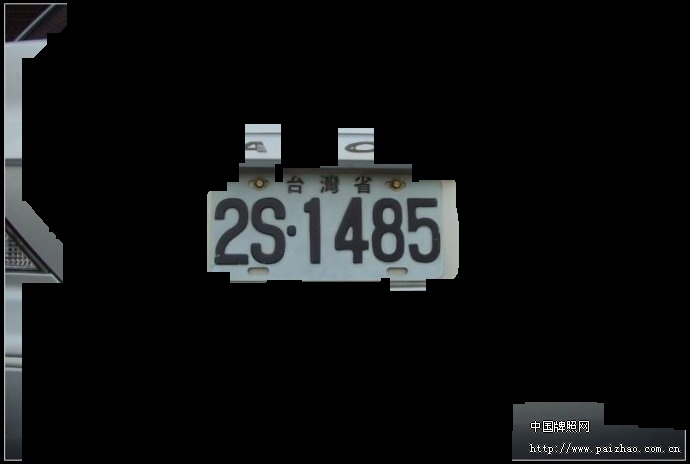
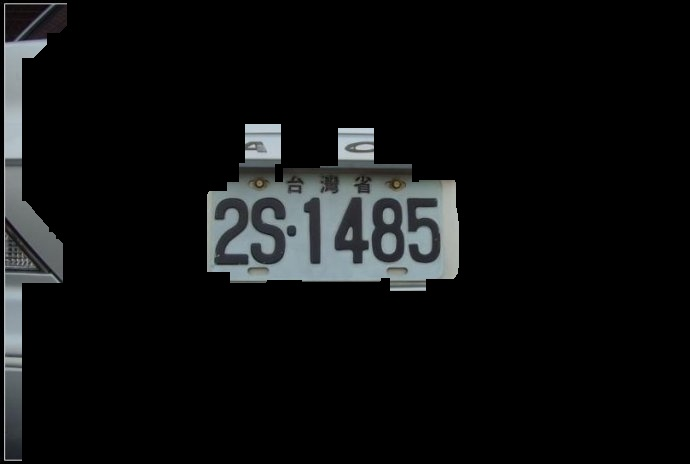
2018_11_27_3

Changed region(s): [[0.7304, 0.8448, 1.0, 0.9957]]

diff --git a/OpenCV/car_test.py b/OpenCV/car_test.py
@@ -9,9 +9,12 @@ import cv2
 import numpy as np
 from skimage import measure
 
-# 第一種：灰階--->邊緣偵測--->二值化--->中值濾波--->膨脹侵蝕--->取標籤
+# =============================================================================
+# #車牌辨識ver2.0
+# =============================================================================
+# 第一種：灰階 ---> 邊緣偵測 ---> 二值化 ---> 中值濾波 ---> 膨脹侵蝕 ---> 取標籤
 
-path = r"D:\desktop_D\ImageProcessing\python_opencv\License plate recognition"
+path = r"D:\desktop_D\Python\python\OpenCV\License plate recognition"
 
 def img_show(name, image):
     cv2.imshow(name, image)
@@ -122,19 +125,46 @@ for i in range(1, 11):
             numPixels = cv2.countNonZero(labelMask)
             
             #如果像素數目大於3000認定為車牌字母或數字
-            if numPixels >= 7000:
+            if numPixels >= 9000:
                 #放到剛剛建立的空圖中
                 mask = cv2.add(mask, labelMask)
 #    img_show("mask", mask)
+    
+    # 將過濾出來的標籤圖儲存
     cv2.imwrite(path + "\label\\far\label_far{}.jpg".format(i), mask)
-
-for i in range(1, 11):
+    
+    # 讀取原圖與標籤圖
     image_far = cv2.imread(path + "\origin\\far\\far_{}.jpg".format(i))
     image_label = cv2.imread(path + "\label\\far\label_far{}.jpg".format(i))
+    
+    # 做疊圖並儲存
     img_add = addImage(image_far, image_label)
     img_show('img_add', img_add)
     cv2.imwrite(path + "\label\\add\label_add{}.jpg".format(i), img_add)
     
+    # 取AND並儲存
     bitwiseAnd = cv2.bitwise_and(image_far, image_label)
     img_show("And", bitwiseAnd)
     cv2.imwrite(path + "\label\AND\label_AND{}.jpg".format(i), bitwiseAnd)
+    
+    # 取輪廓
+    img,contours,hierarchy = cv2.findContours(mask.copy(), cv2.RETR_EXTERNAL, cv2.CHAIN_APPROX_SIMPLE)
+    # 計算面積
+    cnt = contours[0]
+    area = cv2.contourArea(cnt)
+    print(area)
+    clone = bitwiseAnd.copy()
+    # 畫輪廓
+    cv2.drawContours(clone, contours, -1, (0, 0, 255), 2)
+    img_show("area", clone)
+    
+    for c in contours:        
+        mask_1 = np.zeros(mask.shape, dtype="uint8")  #依Contours圖形建立mask
+        cv2.drawContours(mask_1, [c], -1, 255, -1) #255        →白色, -1→塗滿
+        # show the images
+        cv2.imshow("Image", mask)
+        cv2.imshow("Mask", mask_1)
+    #將mask與原圖形作AND運算
+    cv2.imshow("Image + Mask", cv2.bitwise_and(mask, mask, mask=mask_1))  
+    cv2.waitKey(0)
+    cv2.destroyAllWindows()

diff --git a/OpenCV/calculate_area.py b/OpenCV/calculate_area.py
@@ -1,0 +1,39 @@
+# -*- coding: utf-8 -*-
+"""
+Created on Tue Nov 27 19:31:57 2018
+
+@author: USER
+"""
+
+import cv2
+import numpy as np
+
+path = r"D:\desktop_D\Python\python\OpenCV\License plate recognition"
+
+def img_show(name, image):
+    cv2.imshow(name, image)
+    cv2.waitKey(0)
+    cv2.destroyAllWindows()
+
+for i in range(1, 11):
+    image_AND = cv2.imread(path + "\label\AND\label_AND{}.jpg".format(i))
+#    img_show("AND", image_AND)
+    h = image_AND.shape[0]
+    w = image_AND.shape[1]
+    gray = np.empty((h, w), np.uint8)
+    # 分離出R、G、B的分量
+    (B,G,R) = cv2.split(image_AND)
+#    img_show("origin", image_far)
+    # 計算灰階
+    gray[:h, :w] = 0.299*R[:h, :w] + 0.587*G[:h, :w] + 0.114*B[:h, :w]
+    R = gray[:, :]
+    G = gray[:, :]
+    B = gray[:, :]
+    img,contours,hierarchy = cv2.findContours(gray.copy(), cv2.RETR_EXTERNAL, cv2.CHAIN_APPROX_SIMPLE)
+    cnt = contours[1]
+    area = cv2.contourArea(cnt)#计算面积
+    print(area)
+    clone = image_AND.copy()
+    cv2.drawContours(clone, contours, -1, (0, 0, 255), 2)
+    img_show("area", clone)
+    

diff --git a/OpenCV/Connected-component labeling.py b/OpenCV/Connected-component labeling.py
@@ -5,7 +5,7 @@ Created on Mon Nov 19 11:44:19 2018
 @author: 沈鴻儒
 """
 # =============================================================================
-# #車牌辨識
+# #車牌辨識ver1.0
 # =============================================================================
 #下方的步驟中, 我們使用skimage提供的Adaptive threshold而非OpenCV
 from skimage.filters import threshold_adaptive
